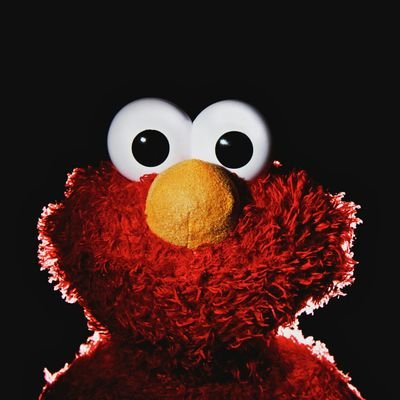
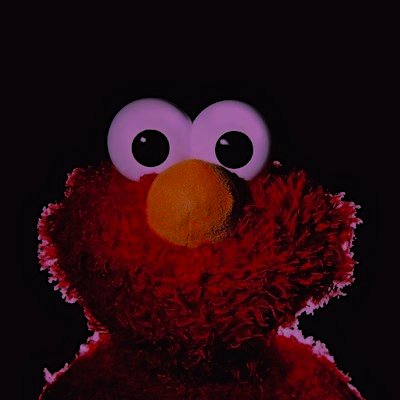
toned down the weirdness in the konami code exercise

diff --git a/konami.html b/konami.html
@@ -8,9 +8,6 @@
             font-family: sinister;
             src: url("fonts/October Crow.ttf");
         }
-        .spoopBG{
-            background-image: url("images/elmo_spoop.jpg");
-        }
         .sinister{
             text-align: center;
             font-family: sinister;
@@ -25,208 +22,16 @@
             float: left;
         }
 
-        /*Some effect i found online*/
-
-        .spoopBG {
-            text-align: center;
-            color: #fff;
-            font-size: 5em;
-            letter-spacing: 8px;
-            font-family: 'Press Start 2P';
-            font-weight: 400;
-            /*Create overlap*/
-
-            margin: 0;
-            line-height: 0;
-            /*Animation*/
-
-            animation: glitch1 2.5s infinite;
-        }
-
-        .spoopBG:nth-child(2) {
-            color: #67f3da;
-            animation: glitch2 2.5s infinite;
-        }
-
-        .spoopBG:nth-child(3) {
-            color: #f16f6f;
-            animation: glitch3 2.5s infinite;
-        }
-        /*Keyframes*/
-
-        @keyframes glitch1 {
-            0% {
-                transform: none;
-                opacity: 1;
-            }
-            7% {
-                transform: skew(-0.5deg, -0.9deg);
-                opacity: 0.75;
-            }
-            10% {
-                transform: none;
-                opacity: 1;
-            }
-            27% {
-                transform: none;
-                opacity: 1;
-            }
-            30% {
-                transform: skew(0.8deg, -0.1deg);
-                opacity: 0.75;
-            }
-            35% {
-                transform: none;
-                opacity: 1;
-            }
-            52% {
-                transform: none;
-                opacity: 1;
-            }
-            55% {
-                transform: skew(-1deg, 0.2deg);
-                opacity: 0.75;
-            }
-            50% {
-                transform: none;
-                opacity: 1;
-            }
-            72% {
-                transform: none;
-                opacity: 1;
-            }
-            75% {
-                transform: skew(0.4deg, 1deg);
-                opacity: 0.75;
-            }
-            80% {
-                transform: none;
-                opacity: 1;
-            }
-            100% {
-                transform: none;
-                opacity: 1;
-            }
-        }
-
-        @keyframes glitch2 {
-            0% {
-                transform: none;
-                opacity: 0.25;
-            }
-            7% {
-                transform: translate(-2px, -3px);
-                opacity: 0.5;
-            }
-            10% {
-                transform: none;
-                opacity: 0.25;
-            }
-            27% {
-                transform: none;
-                opacity: 0.25;
-            }
-            30% {
-                transform: translate(-5px, -2px);
-                opacity: 0.5;
-            }
-            35% {
-                transform: none;
-                opacity: 0.25;
-            }
-            52% {
-                transform: none;
-                opacity: 0.25;
-            }
-            55% {
-                transform: translate(-5px, -1px);
-                opacity: 0.5;
-            }
-            50% {
-                transform: none;
-                opacity: 0.25;
-            }
-            72% {
-                transform: none;
-                opacity: 0.25;
-            }
-            75% {
-                transform: translate(-2px, -6px);
-                opacity: 0.5;
-            }
-            80% {
-                transform: none;
-                opacity: 0.25;
-            }
-            100% {
-                transform: none;
-                opacity: 0.25;
-            }
-        }
-
-        @keyframes glitch3 {
-            0% {
-                transform: none;
-                opacity: 0.25;
-            }
-            7% {
-                transform: translate(2px, 3px);
-                opacity: 0.5;
-            }
-            10% {
-                transform: none;
-                opacity: 0.25;
-            }
-            27% {
-                transform: none;
-                opacity: 0.25;
-            }
-            30% {
-                transform: translate(5px, 2px);
-                opacity: 0.5;
-            }
-            35% {
-                transform: none;
-                opacity: 0.25;
-            }
-            52% {
-                transform: none;
-                opacity: 0.25;
-            }
-            55% {
-                transform: translate(5px, 1px);
-                opacity: 0.5;
-            }
-            50% {
-                transform: none;
-                opacity: 0.25;
-            }
-            72% {
-                transform: none;
-                opacity: 0.25;
-            }
-            75% {
-                transform: translate(2px, 6px);
-                opacity: 0.5;
-            }
-            80% {
-                transform: none;
-                opacity: 0.25;
-            }
-            100% {
-                transform: none;
-                opacity: 0.25;
-            }
-        }
     </style>
 </head>
 
 
 <body>
 
-<div class="spoopBox"><h1> Welcome! </h1>
+
+<h1> Welcome! </h1>
 <img src="images/elmo.gif" class="elmo">
-<audio controls autoplay>
+<audio autoplay>
     <source src="audio/Elmos%20World%20in%20G%20Major.mp3" type="audio/mpeg">
 </audio>
 <p> </p>
@@ -235,7 +40,7 @@
     <li><img class="elmo" src="images/more_elmo.gif"></li>
     <li><img class="elmo" src="images/more_elmo.gif"></li>
     <li><img class="elmo" src="images/more_elmo.gif"></li>
-</ul></div>
+</ul>
 
 
 
@@ -248,9 +53,10 @@
     var i = 0; //current position in array
     var dummy = 0; //number of place in the konami array
 
-    //default hides elmo
+    //default hides...
         $(".elmo").hide();
-        $("audio").hide()
+        $("audio").hide();
+        $("ul").hide();
 
 
     //the function that fires when a key is pressed
@@ -266,24 +72,40 @@
         //completion of konami code does this....
         if ((dummy=== 11) && (e.key === "Enter")){
             //whole thing
-            $("body").css("background-color", "black");
-            $(".spoopBox").addClass("spoopBG");
-            $(".spoopBox").addClass("spoopBG");
-            $(".spoopBox").addClass("spoopBG"); //change the background
+            $("body").css("background-color", "black");//change the background
 
 
             //header
-            $("h1").html("Welcome Peasants!");
             $("h1").addClass("sinister");
 
             //main content
             $(".elmo").show();
-            $("p").html("Elmo rules over you all!");
-            $("p").addClass("sinister");
             $("audio").show();
+            $("ul").show();
+
+            $("audio").ready(function() {
+                $("audio").get(0).play();
+            });
 
         }
     });
+
+        //when audio is done playing....
+        $("audio").on("ended", function (e) {
+            $(this).currentTime = 0;
+            //whole thing
+            $("body").css("background-color", "white");
+            $("body").removeClass("spoopBG"); //change the background
+
+
+            //header
+            $("h1").removeClass("sinister");
+
+            //main content
+            $(".elmo").hide();
+            $("audio").hide();
+            $("ul").hide();
+        })
 
 
 </script>
